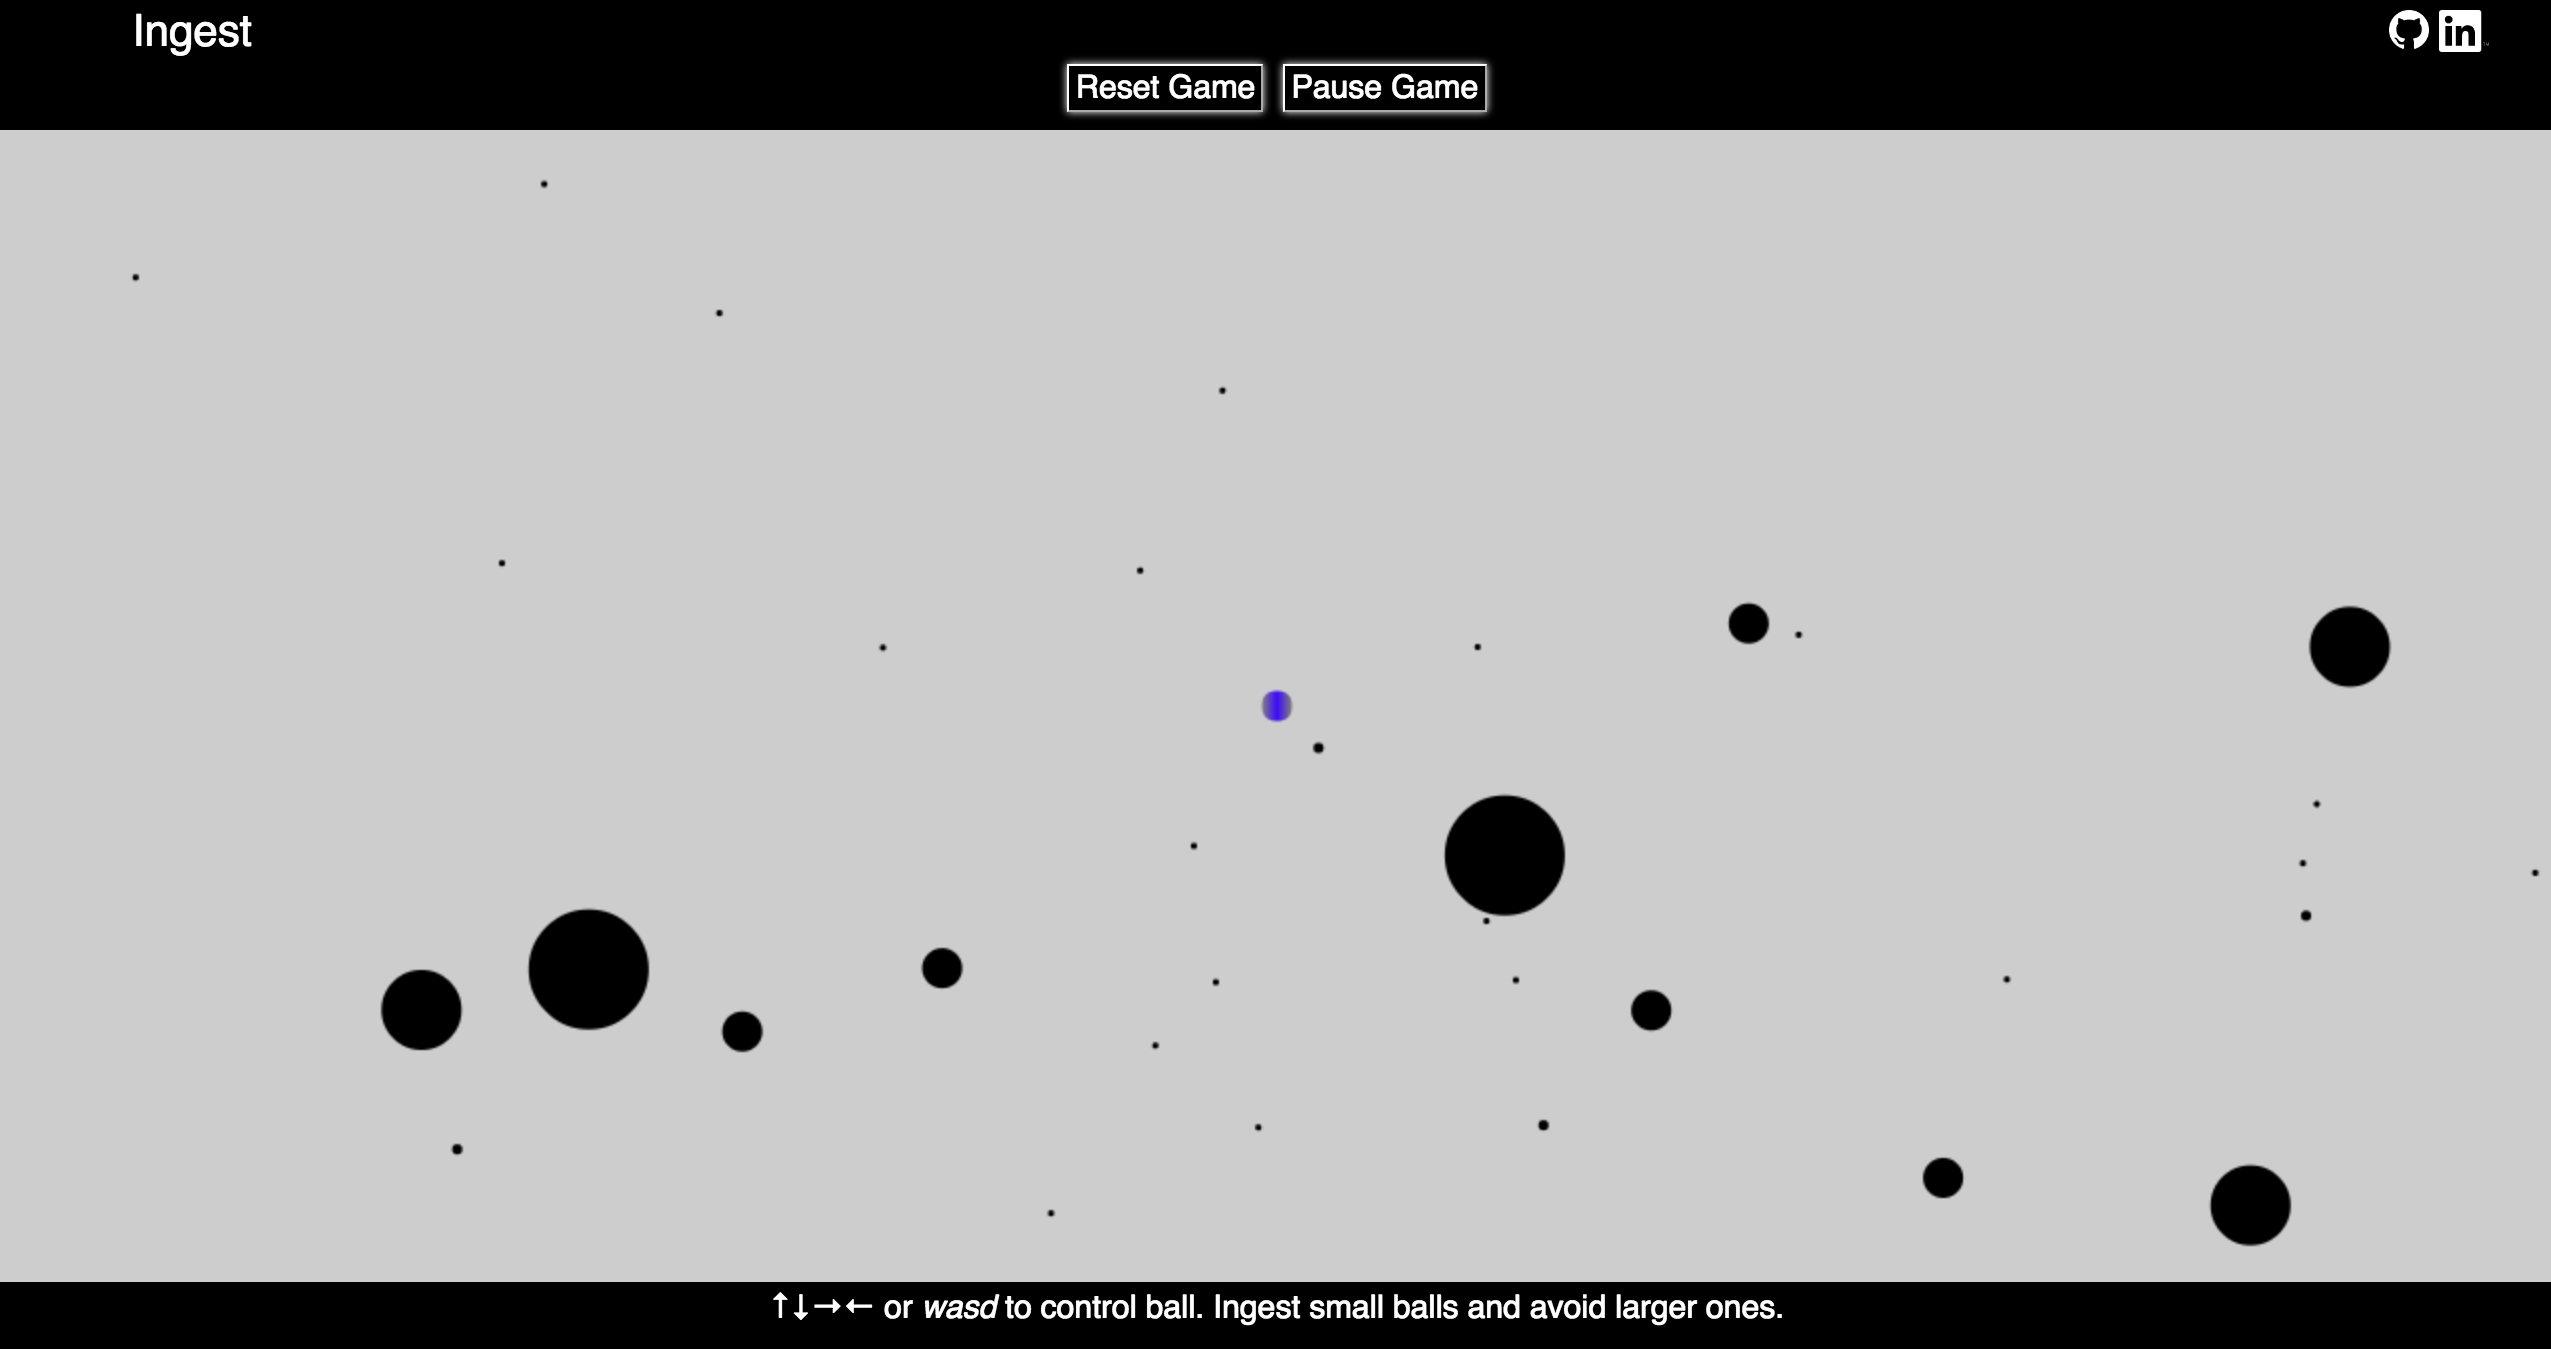
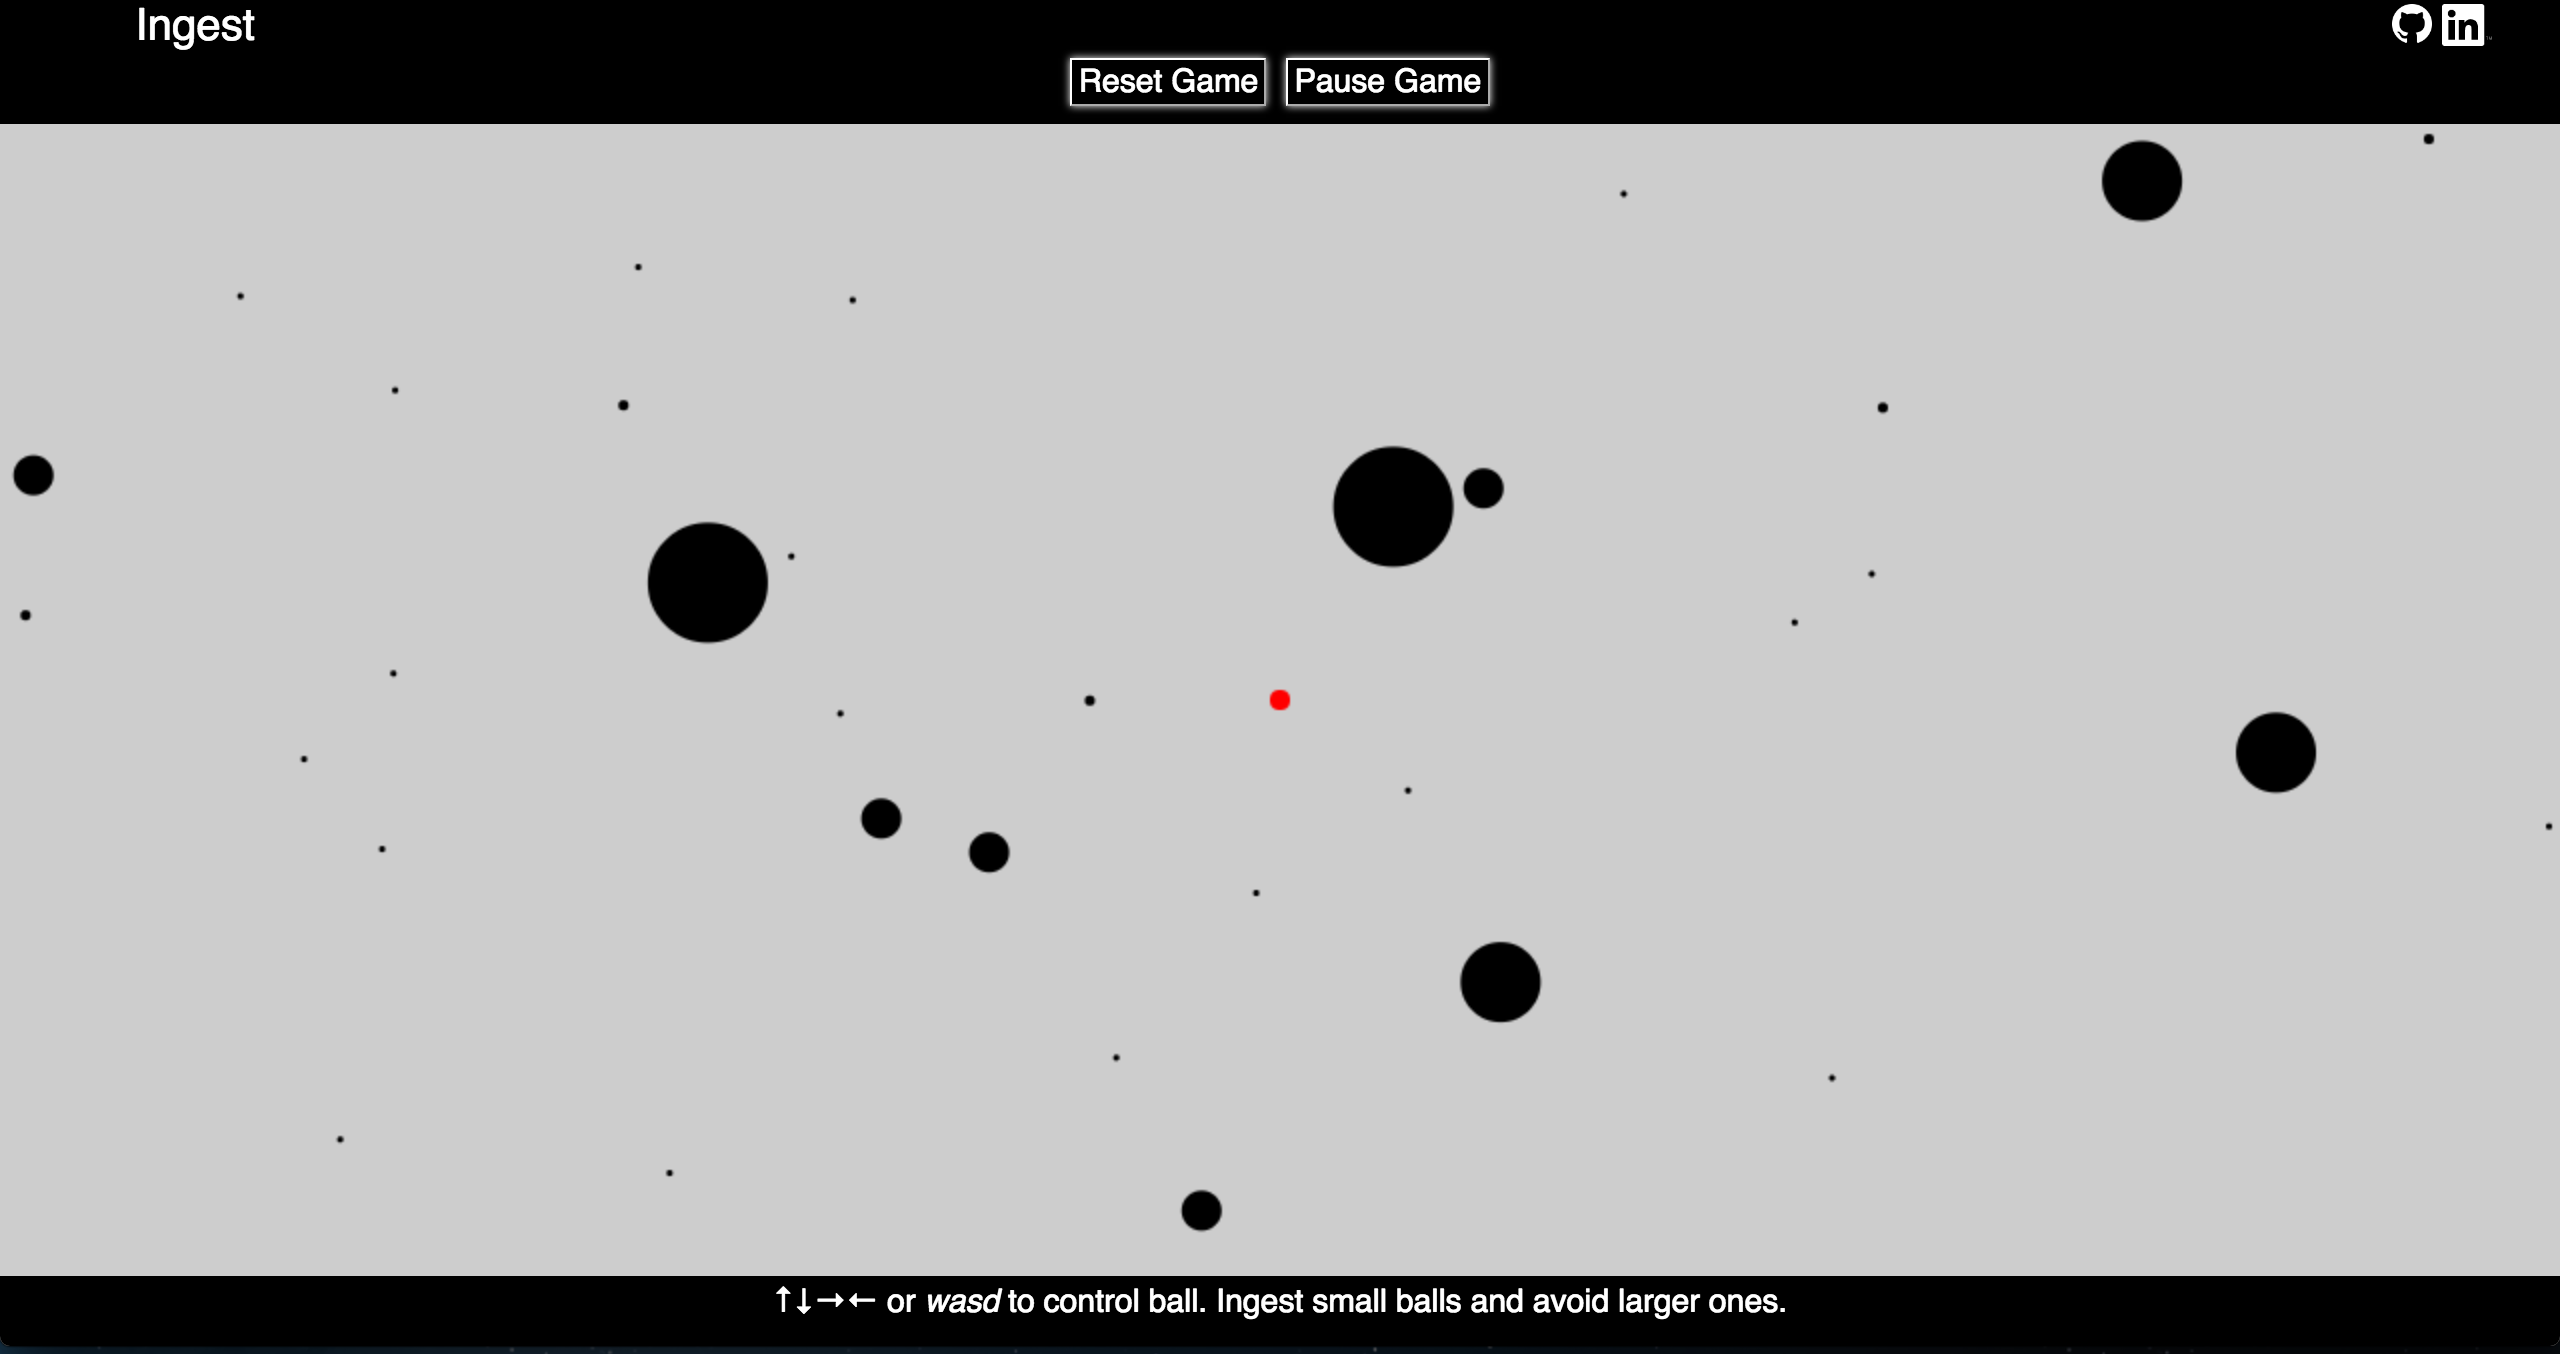
changed color

diff --git a/lib/bundle.js b/lib/bundle.js
@@ -457,7 +457,7 @@
 	      lingrad.addColorStop(0, 'gray');
 	      lingrad.addColorStop(0.5, '#3c09fa');
 	      lingrad.addColorStop(1, 'gray');
-	      ctx.fillStyle = lingrad;
+	      ctx.fillStyle = 'red';
 	      ctx.beginPath();
 	      ctx.arc(this.pos[0], this.pos[1], this.radius, 0, 2 * Math.PI, false);
 	

diff --git a/lib/game/ball.js b/lib/game/ball.js
@@ -21,7 +21,7 @@ class Ball extends MovingObject {
     lingrad.addColorStop(0, 'gray');
     lingrad.addColorStop(0.5, '#3c09fa');
     lingrad.addColorStop(1, 'gray');
-    ctx.fillStyle = lingrad;
+    ctx.fillStyle = 'red';
     ctx.beginPath();
     ctx.arc(
       this.pos[0],

diff --git a/README.md b/README.md
@@ -1,4 +1,5 @@
-# Ingest
+# [Ingest][live_link]
+[live_link]: http://www.rushabhs.com/ingest/
 
 ## Background
 
